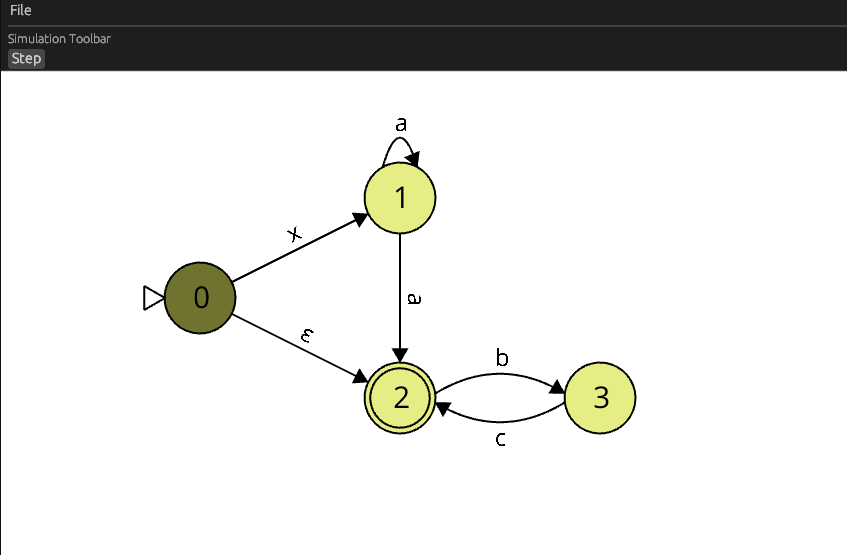
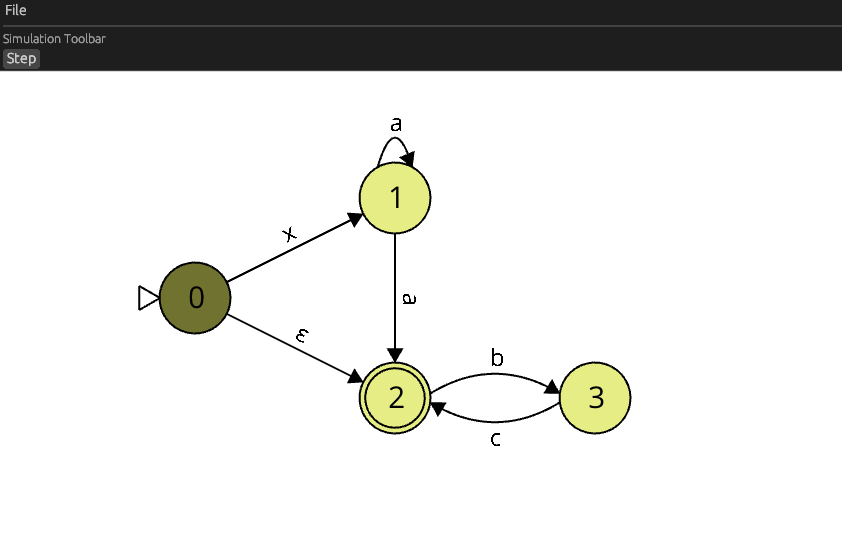
Add link and slightly trim screenshot

diff --git a/README.md b/README.md
@@ -1,4 +1,6 @@
 # Sugarcubes
+https://henryksloan.github.io/sugarcubes/
+
 Sugarcubes is a library and application for automata and formal languages. It is inspired by JFLAP, and is intended to eventually to be an alternative to JFLAP.
 
 ![Screenshot of a finite automaton in Sugarcubes](screenshots/Sugarcubes.png)
